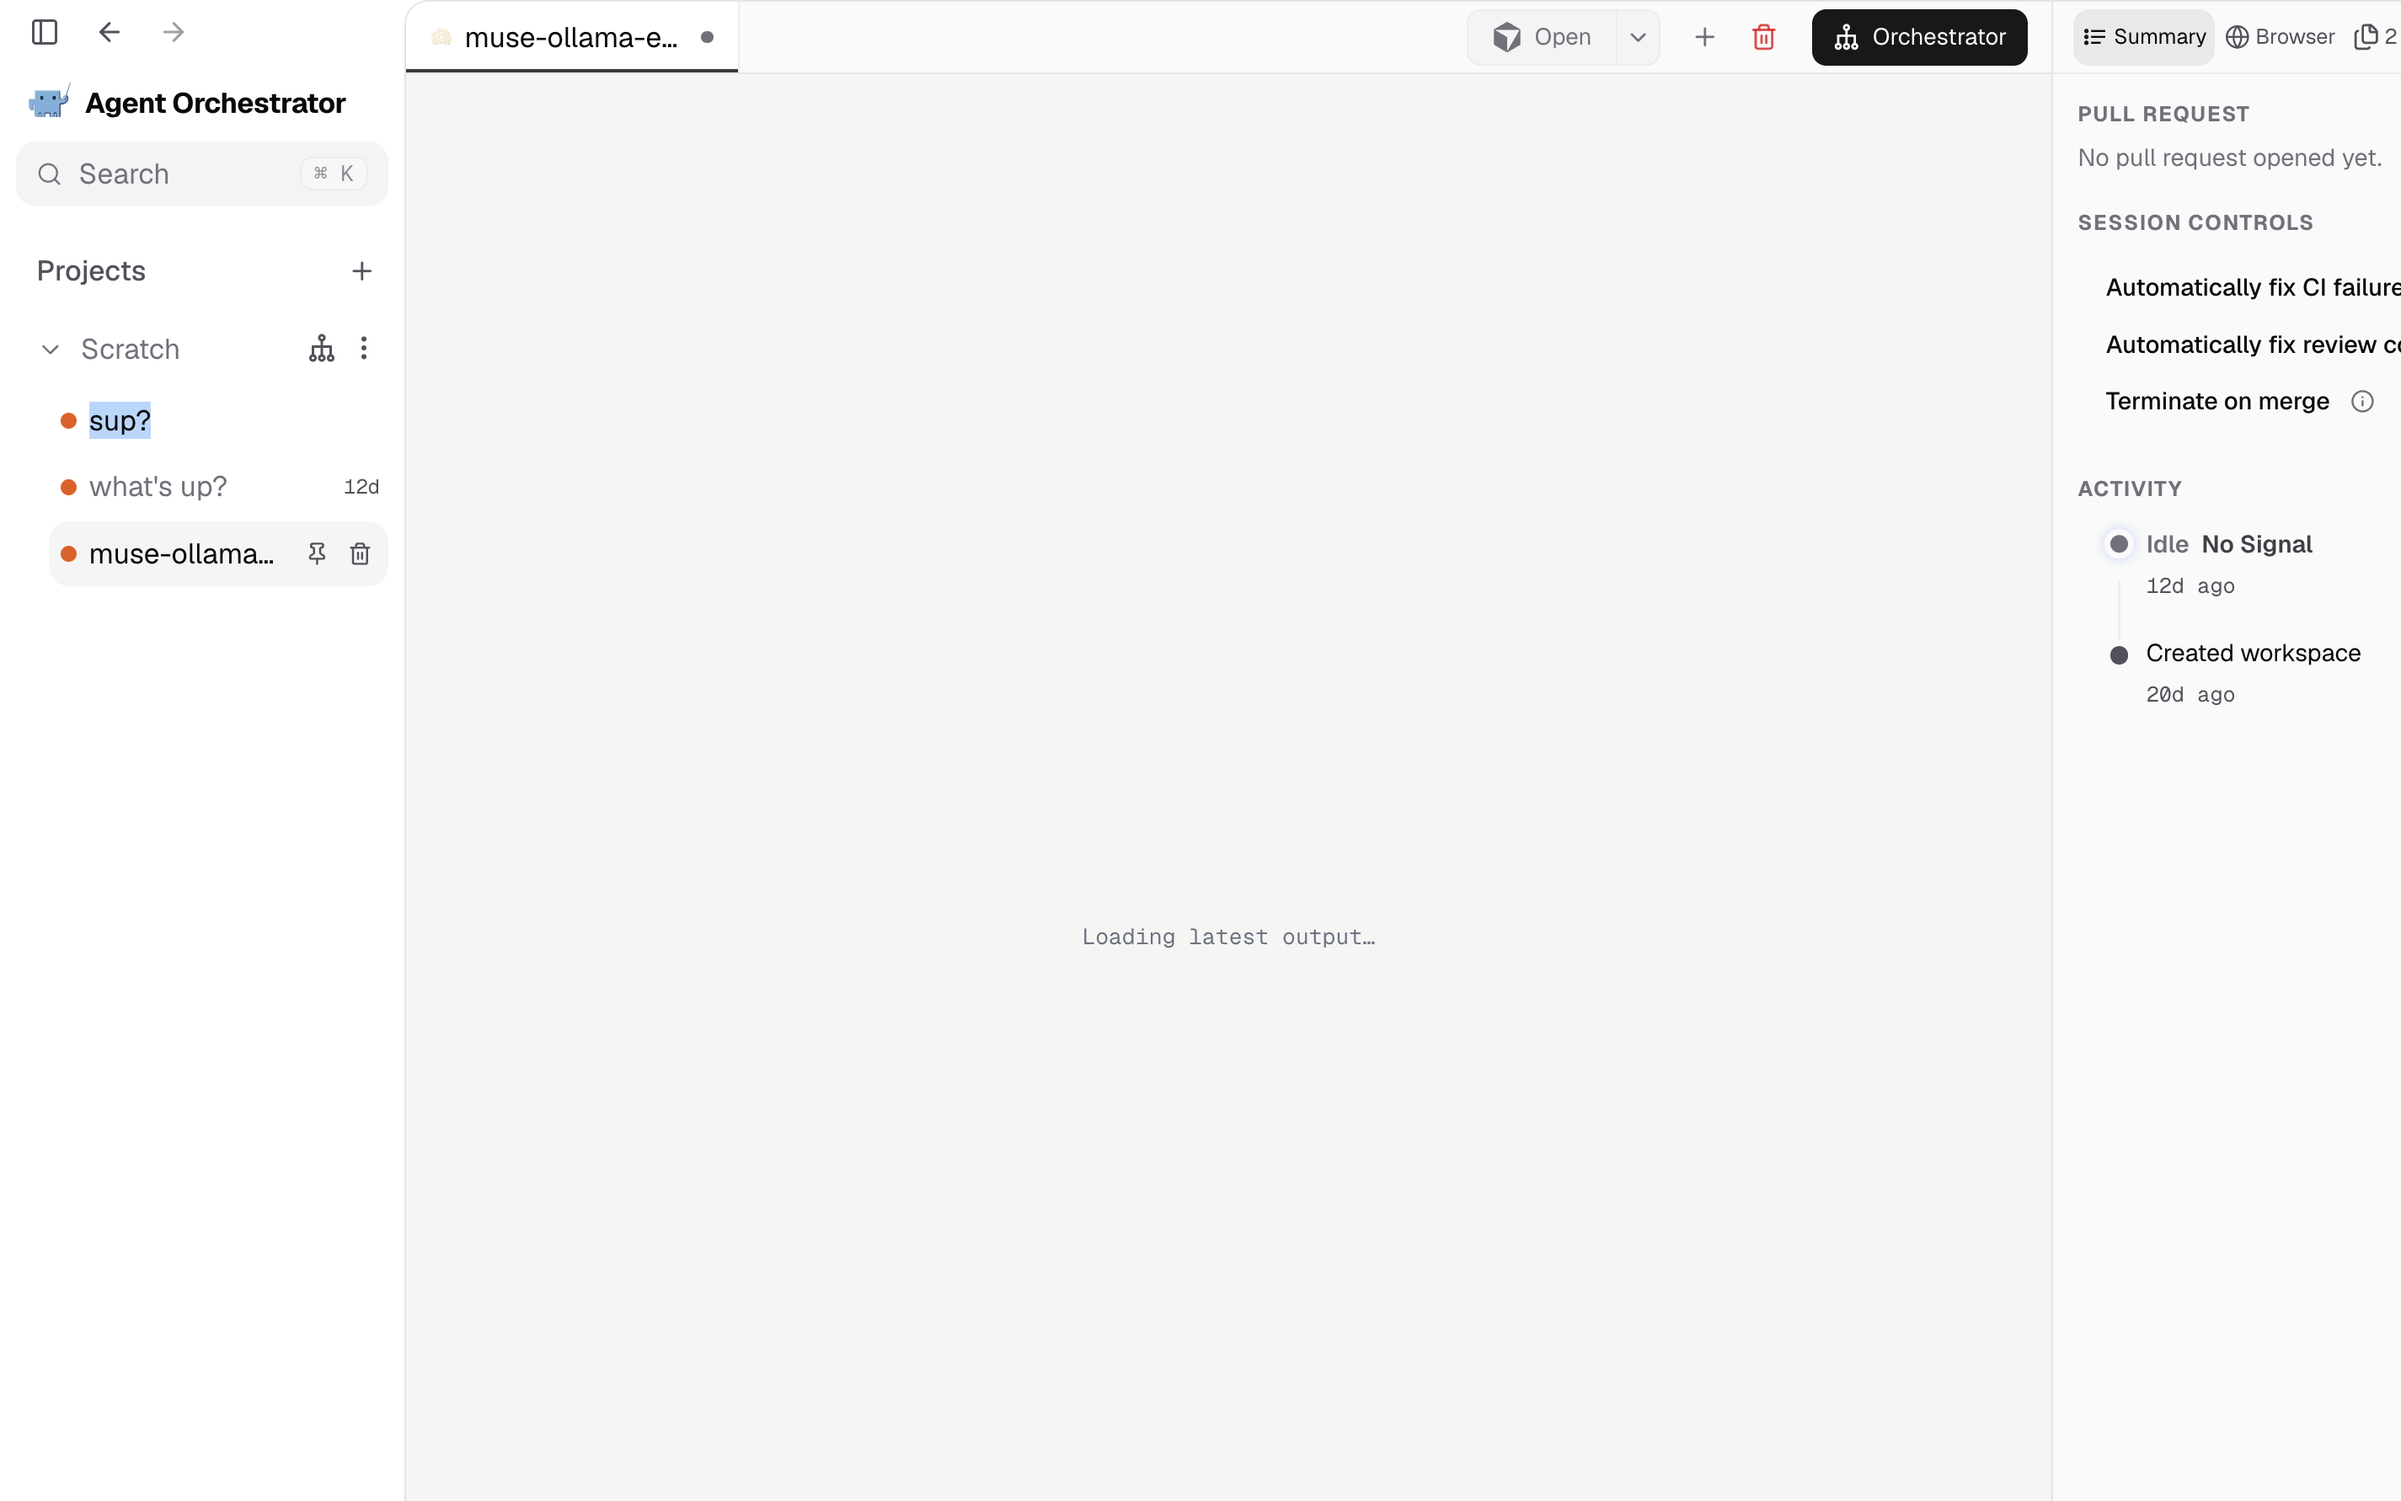
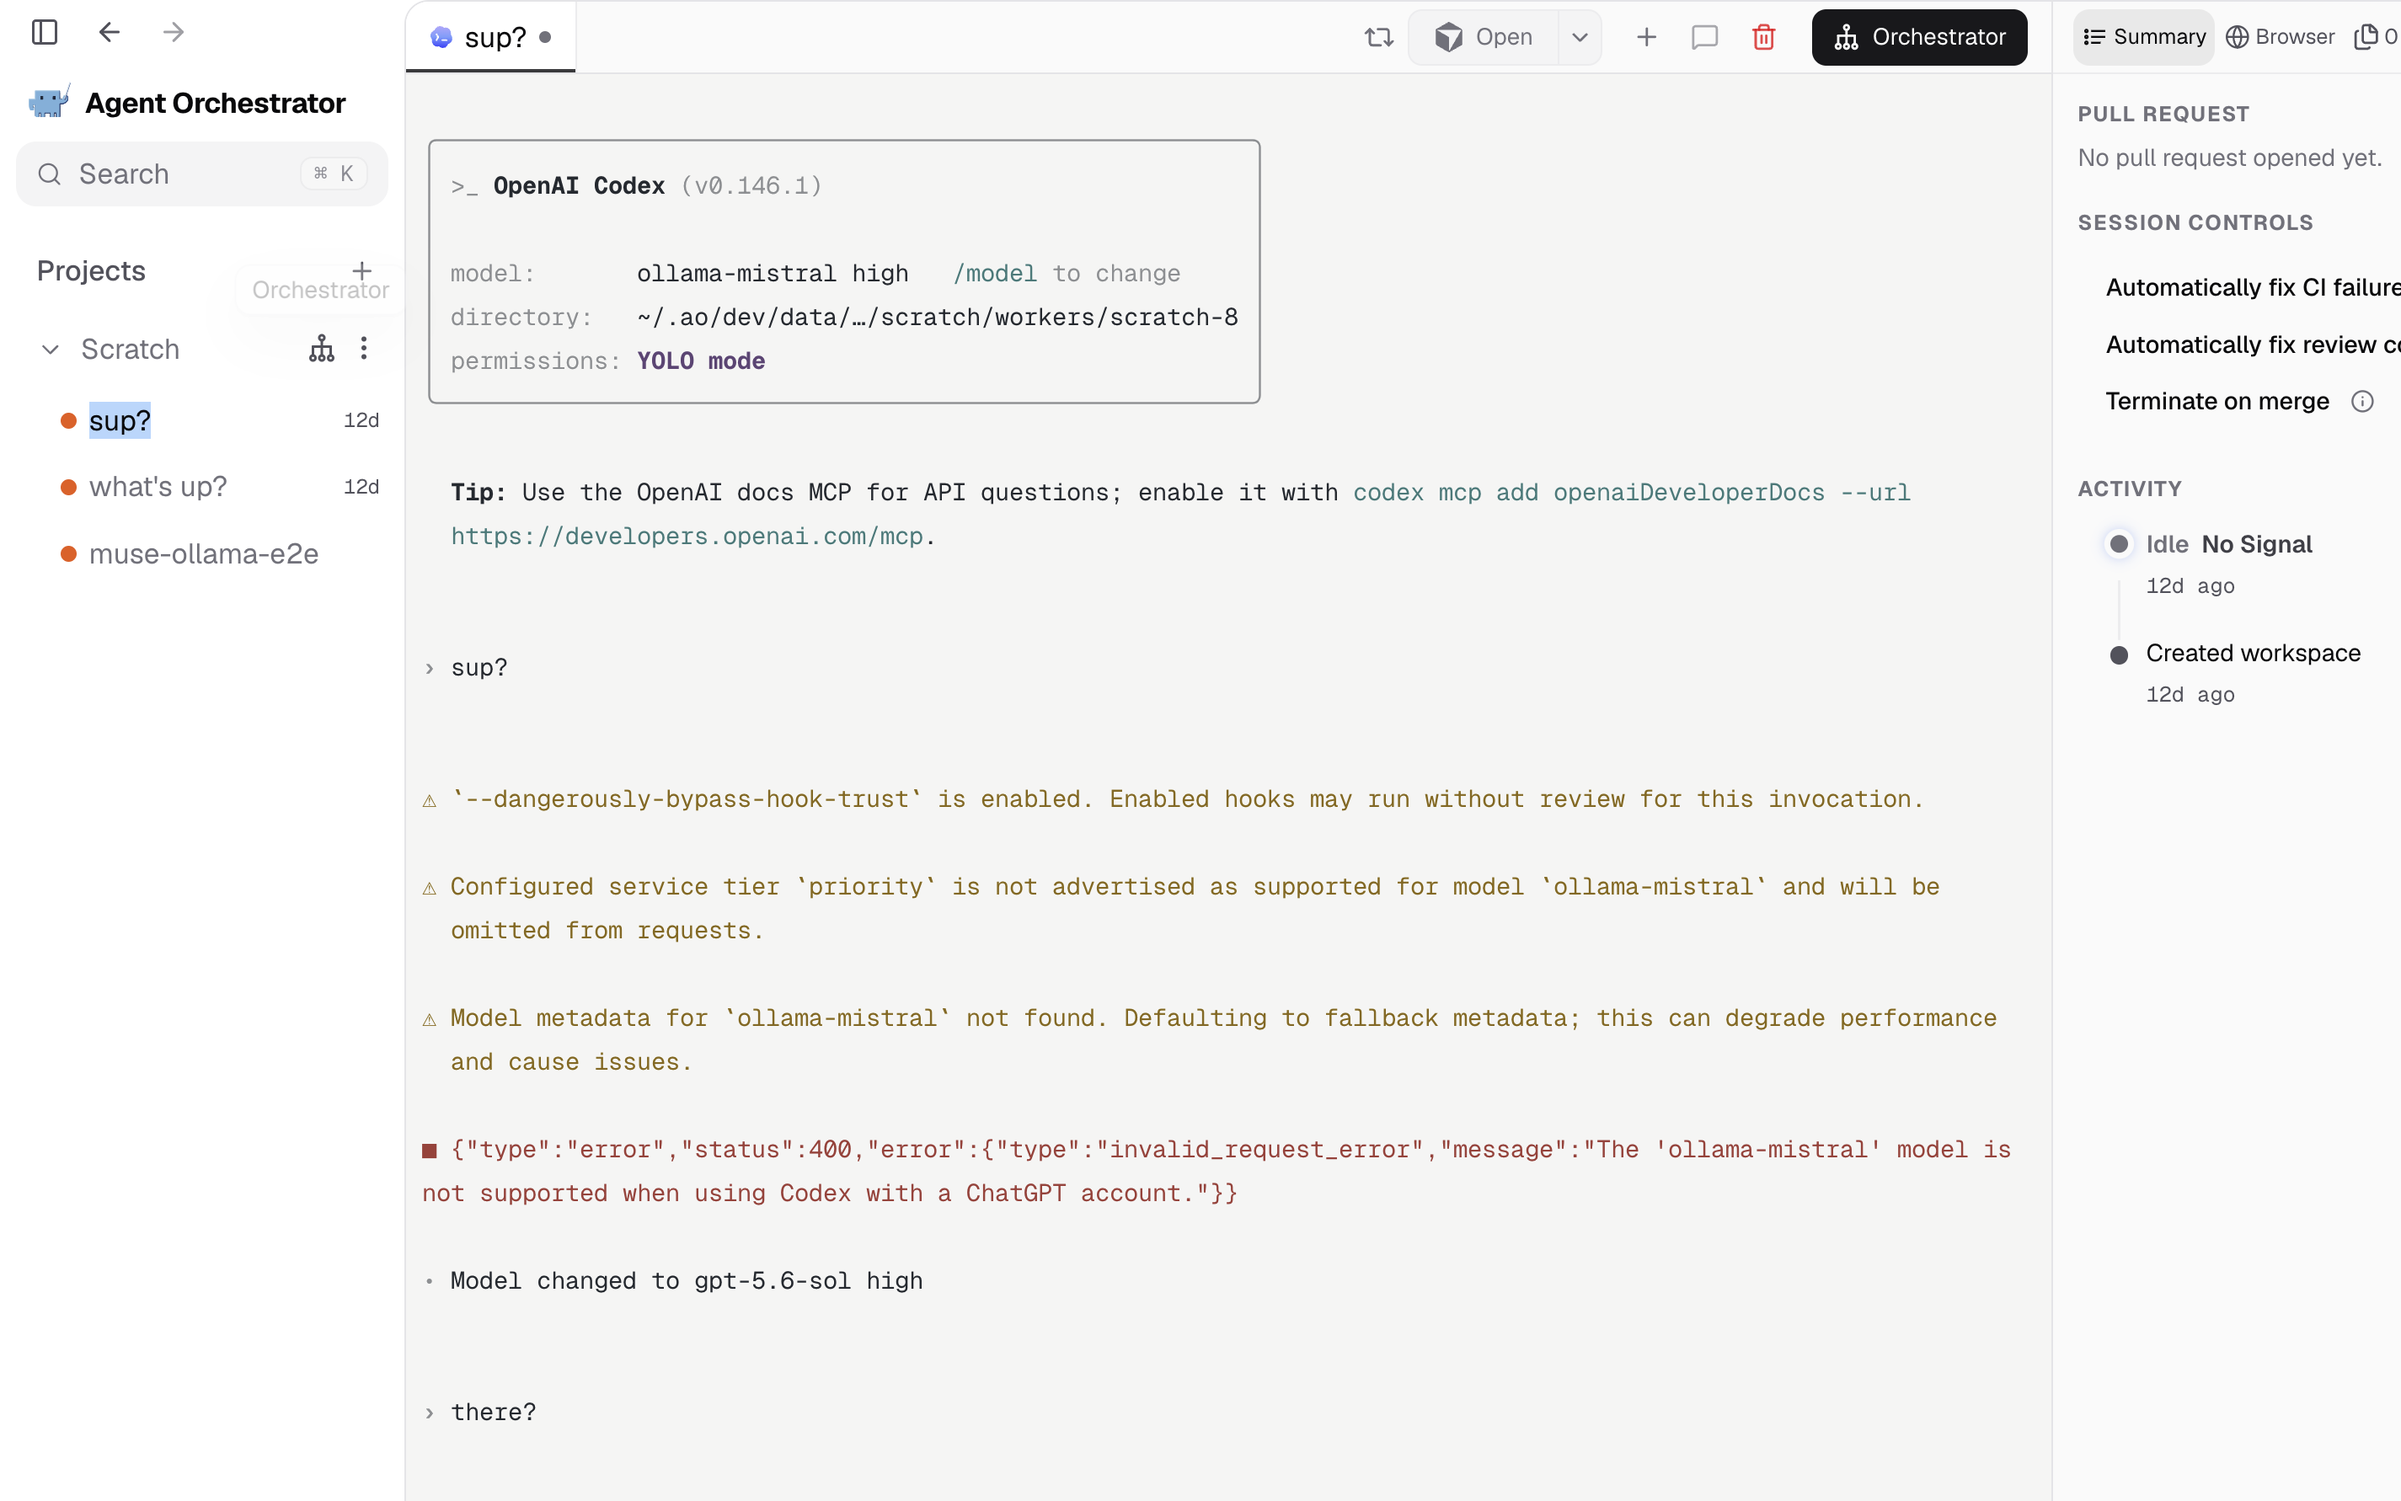
fix(sidebar): preserve message age while renaming

diff --git a/frontend/src/renderer/components/Sidebar.tsx b/frontend/src/renderer/components/Sidebar.tsx
@@ -1620,7 +1620,7 @@ function SessionRow({
 	if (isEditing) {
 		return (
 			<SidebarMenuSubItem className={cn(indented && "pl-0.5")}>
-				<div className="relative flex h-8 w-full items-center gap-1.5 rounded-lg py-0 pl-1.5 pr-2.5">
+				<div className="relative flex h-8 w-full items-center gap-1.5 rounded-lg py-0 pl-1.5 pr-1">
 					<SessionStatusDot session={session} />
 					<input
 						aria-label={t("shell.renameSession", { title: session.title })}
@@ -1643,6 +1643,7 @@ function SessionRow({
 						}}
 						value={draft}
 					/>
+					<SessionMessageAge session={session} />
 				</div>
 			</SidebarMenuSubItem>
 		);
@@ -1759,6 +1760,22 @@ function SessionRow({
 	);
 }
 
+const SessionMessageAge = memo(function SessionMessageAge({ session }: { session: WorkspaceSession }) {
+	const { t } = useTranslation();
+	if (!session.lastUserMessageAt) return null;
+
+	return (
+		<time
+			className="min-w-0 shrink-0 whitespace-nowrap font-mono text-micro text-passive"
+			data-session-message-age=""
+			dateTime={session.lastUserMessageAt}
+			title={t("shell.lastMessageAt", { time: formatTimeCompact(session.lastUserMessageAt) })}
+		>
+			{formatTimeTerse(session.lastUserMessageAt)}
+		</time>
+	);
+});
+
 const SessionActions = memo(function SessionActions({
 	session,
 	isDragging,
@@ -1809,15 +1826,7 @@ const SessionActions = memo(function SessionActions({
 					<Trash2 aria-hidden="true" />
 				</button>
 			</div>
-			{session.lastUserMessageAt ? (
-				<time
-					className="min-w-0 shrink-0 whitespace-nowrap font-mono text-micro text-passive"
-					dateTime={session.lastUserMessageAt}
-					title={t("shell.lastMessageAt", { time: formatTimeCompact(session.lastUserMessageAt) })}
-				>
-					{formatTimeTerse(session.lastUserMessageAt)}
-				</time>
-			) : null}
+			<SessionMessageAge session={session} />
 		</div>
 	);
 });

diff --git a/frontend/src/renderer/components/Sidebar.test.tsx b/frontend/src/renderer/components/Sidebar.test.tsx
@@ -1447,14 +1447,21 @@ describe("Sidebar", () => {
 
 	it("renders rename as an unboxed inline label editor", async () => {
 		const user = userEvent.setup();
-		renderSidebar({ workspaces: [{ ...workspace, sessions: [session] }] });
+		const lastUserMessageAt = "2026-06-29T23:55:00Z";
+		renderSidebar({
+			workspaces: [{ ...workspace, sessions: [{ ...session, lastUserMessageAt }] }],
+		});
 
 		await user.dblClick(screen.getByText("fix login"));
 		const input = screen.getByLabelText("Rename fix login");
+		const time = input.parentElement?.querySelector("time");
 
 		expect(input).toHaveAttribute("data-session-inline-editor");
 		expect(input).toHaveClass("border-0", "bg-transparent!", "p-0", "ring-0");
 		expect(input).not.toHaveClass("rounded-xs", "border-accent", "px-1", "focus-visible:ring-1");
+		expect(input.parentElement).toHaveClass("pr-1");
+		expect(time).toHaveAttribute("data-session-message-age", "");
+		expect(time).toHaveAttribute("datetime", lastUserMessageAt);
 	});
 
 	it("offers F2 as a keyboard rename path", async () => {
